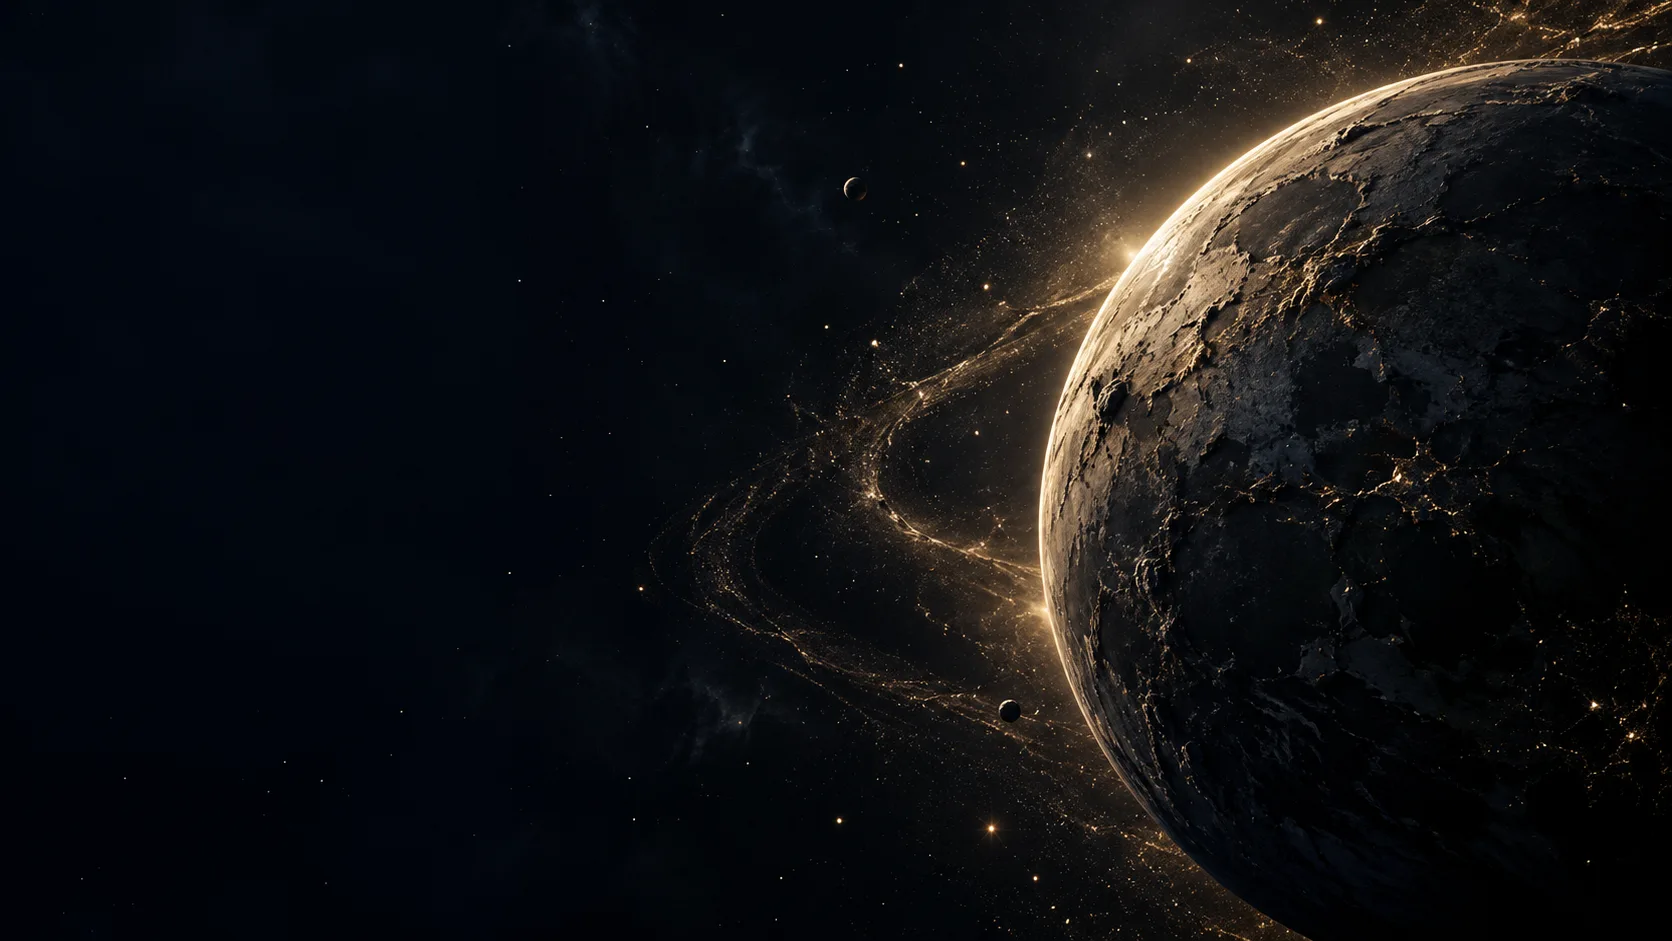
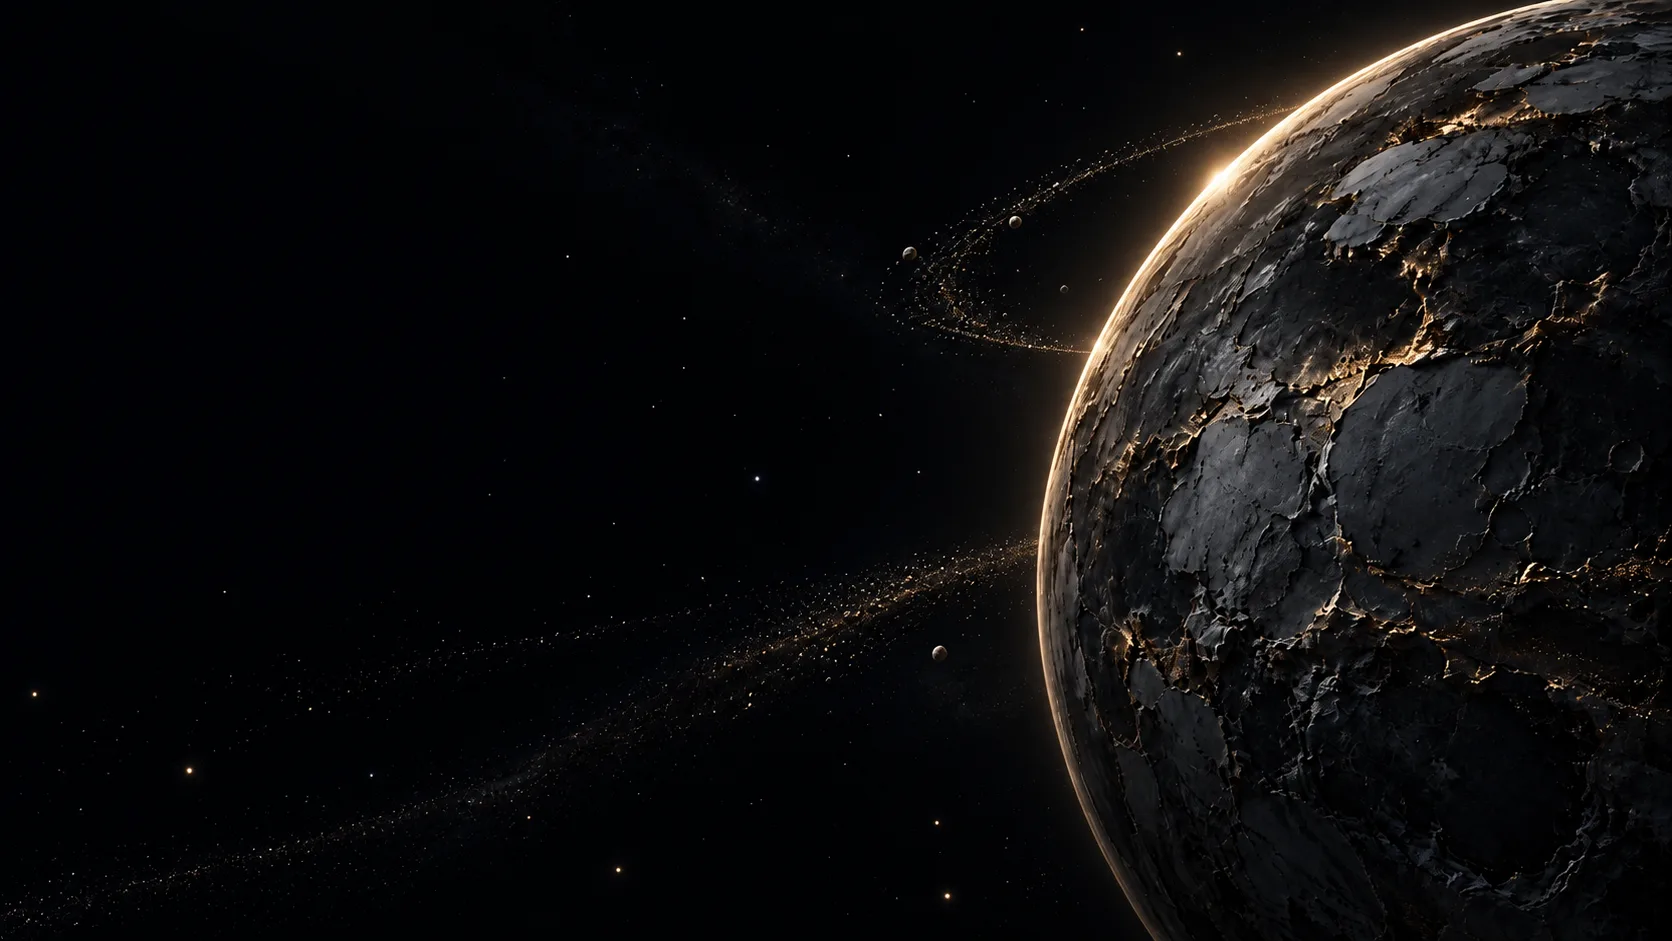
image regeneration

diff --git a/index.html b/index.html
@@ -55,7 +55,7 @@
             },
         };
     </script>
-    <link rel="stylesheet" href="assets/css/style.css?v=12">
+    <link rel="stylesheet" href="assets/css/style.css?v=13">
 </head>
 
 <body class="bg-space-950 font-sans text-white/80 antialiased selection:bg-gold-500/40 selection:text-white">
@@ -107,8 +107,8 @@
         <!-- ============ HERO ============ -->
         <section id="accueil" class="relative flex min-h-screen items-center overflow-hidden">
             <picture class="hero-bg hero-night absolute inset-0" aria-hidden="true">
-                <source media="(max-width: 767px)" srcset="assets/img/generated/hero-960.webp">
-                <img src="assets/img/generated/hero-1672.webp" alt="" width="1672" height="941" fetchpriority="high" decoding="async">
+                <source media="(max-width: 767px)" srcset="assets/img/generated/hero-960.webp?v=2">
+                <img src="assets/img/generated/hero-1672.webp?v=2" alt="" width="1672" height="941" fetchpriority="high" decoding="async">
             </picture>
             <picture class="hero-bg hero-day absolute inset-0" aria-hidden="true">
                 <source media="(max-width: 767px)" srcset="assets/img/generated/hero-day-960.webp">
